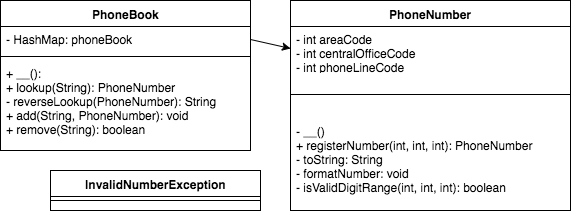
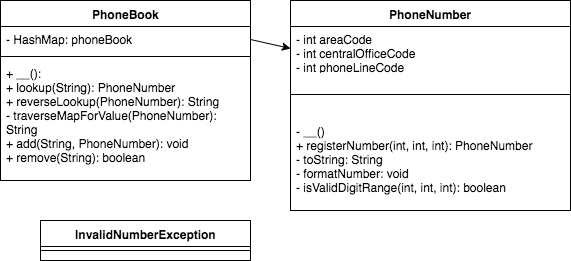
Updated for reverseLookup

diff --git a/src/test/java/io/github/aaronclong/holdingobjects/PhoneBookTest.java b/src/test/java/io/github/aaronclong/holdingobjects/PhoneBookTest.java
@@ -1,6 +1,7 @@
 package io.github.aaronclong.holdingobjects;
 
 import static org.junit.Assert.assertEquals;
+import static org.junit.Assert.assertNull;
 import org.junit.Before;
 import org.junit.Test;
 
@@ -24,5 +25,22 @@ public class PhoneBookTest {
   public void testLookupForValidReturn() {
     phoneBook.add("Dennis", phoneNumber);
     assertEquals("Confirming same number Returned from PhoneBook", phoneNumber, phoneBook.lookup("Dennis"));
+  }
+
+  @Test
+  public void testLookupForNonExistingItem() {
+    assertNull("Confirming null on non-existing item", phoneBook.lookup("Dennis"));
+  }
+
+  @Test
+  public void testReverseLookupForNullOnNonExistingItem() {
+    phoneBook.add("Dennis", phoneNumber);
+    assertEquals("Confirming that none existing elements return null", "Dennis",
+            phoneBook.reverseLookup(phoneNumber));
+  }
+
+  @Test
+  public void testReverseLookupForNullOnNoEntry() {
+    assertNull("Confirming that none existing elements return null", phoneBook.reverseLookup(phoneNumber));
   }
 }

diff --git a/src/main/java/io/github/aaronclong/holdingobjects/PhoneBook.java b/src/main/java/io/github/aaronclong/holdingobjects/PhoneBook.java
@@ -1,6 +1,8 @@
 package io.github.aaronclong.holdingobjects;
 
 import java.util.HashMap;
+import java.util.Map.Entry;
+import java.util.Set;
 
 /**
  * Created by aaronlong on 5/16/17.
@@ -18,6 +20,19 @@ public class PhoneBook {
 
   public PhoneNumber lookup(String name) {
     return phoneBook.get(name);
+  }
+  public String reverseLookup(PhoneNumber number) {
+    if (phoneBook.isEmpty() || !phoneBook.containsValue(number)) { return null; }
+    return traverseMapForValue(number);
+  }
+
+  private String traverseMapForValue(PhoneNumber number) {
+    for (Entry<String, PhoneNumber> set : phoneBook.entrySet()) {
+      if (number.equals(set.getValue())) {
+        return set.getKey();
+      }
+    }
+    return null;
   }
 
   public boolean remove(String name) {
